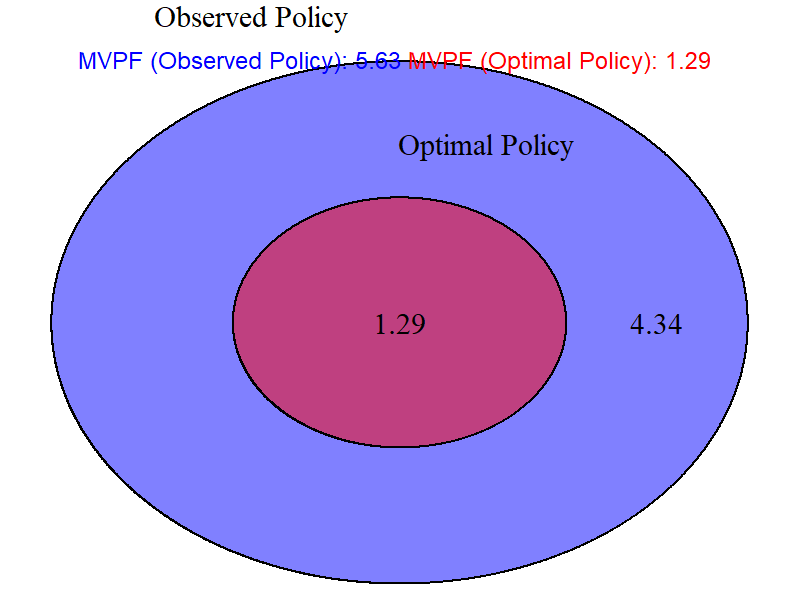
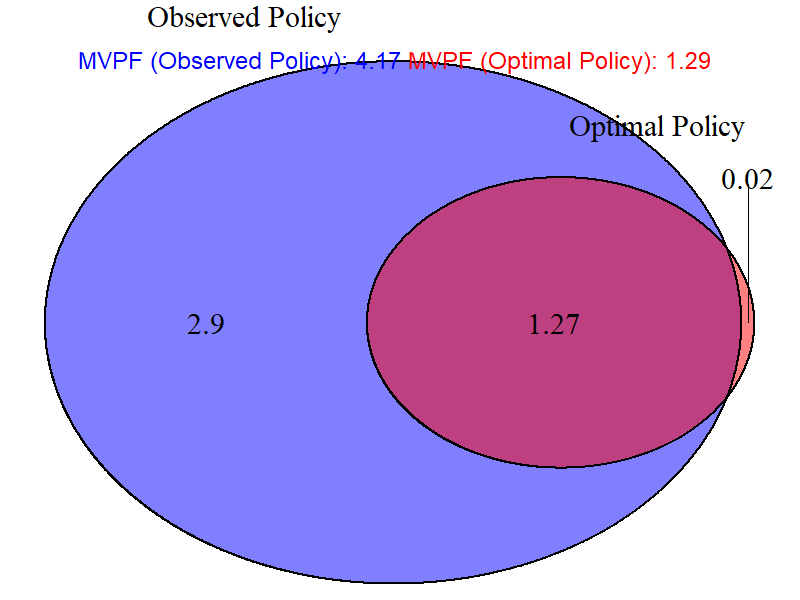
Optimal_Policy_Analysis.R script now converts monetary variables to 2024 USD

diff --git a/analysis/output/tables/MVPF_comparison_table.tex b/analysis/output/tables/MVPF_comparison_table.tex
@@ -9,10 +9,10 @@
 \cmidrule(l{3pt}r{3pt}){2-5}
 Metric & Observed.Policy & alpha = 0 & alpha = 02 & alpha = 05\\
 \midrule
-\cellcolor{gray!10}{MVPF} & \cellcolor{gray!10}{8.43} & \cellcolor{gray!10}{2.94} & \cellcolor{gray!10}{1.49} & \cellcolor{gray!10}{1.31}\\
-Total Revenue & 1265.57 & 5628.71 & 6989.53 & 6856.10\\
-\cellcolor{gray!10}{Government Expenditure} & \cellcolor{gray!10}{557.34} & \cellcolor{gray!10}{1295.74} & \cellcolor{gray!10}{1304.40} & \cellcolor{gray!10}{1091.47}\\
-Number Treated & 100.00 & 298.00 & 292.00 & 233.00\\
+\cellcolor{gray!10}{MVPF} & \cellcolor{gray!10}{4.17} & \cellcolor{gray!10}{2.94} & \cellcolor{gray!10}{1.49} & \cellcolor{gray!10}{1.31}\\
+Total Revenue & 10.89 & 41.40 & 51.41 & 50.43\\
+\cellcolor{gray!10}{Government Expenditure} & \cellcolor{gray!10}{4.28} & \cellcolor{gray!10}{9.53} & \cellcolor{gray!10}{9.59} & \cellcolor{gray!10}{8.03}\\
+Number Treated & 111.00 & 298.00 & 292.00 & 233.00\\
 \bottomrule
 \end{tabular}}
 \end{table}
@@ -28,10 +28,10 @@ Number Treated & 100.00 & 298.00 & 292.00 & 233.00\\
 \cmidrule(l{3pt}r{3pt}){2-5}
 Metric & Observed.Policy & alpha = 0 & alpha = 02 & alpha = 05\\
 \midrule
-\cellcolor{gray!10}{MVPF} & \cellcolor{gray!10}{8.43} & \cellcolor{gray!10}{1.30} & \cellcolor{gray!10}{1.29} & \cellcolor{gray!10}{1.24}\\
-Total Revenue & 1265.57 & 6472.58 & 6390.84 & 5013.40\\
-\cellcolor{gray!10}{Government Expenditure} & \cellcolor{gray!10}{557.34} & \cellcolor{gray!10}{993.16} & \cellcolor{gray!10}{983.03} & \cellcolor{gray!10}{688.99}\\
-Number Treated & 100.00 & 221.00 & 207.00 & 152.00\\
+\cellcolor{gray!10}{MVPF} & \cellcolor{gray!10}{4.17} & \cellcolor{gray!10}{1.30} & \cellcolor{gray!10}{1.29} & \cellcolor{gray!10}{1.24}\\
+Total Revenue & 10.89 & 47.61 & 47.01 & 36.88\\
+\cellcolor{gray!10}{Government Expenditure} & \cellcolor{gray!10}{4.28} & \cellcolor{gray!10}{7.31} & \cellcolor{gray!10}{7.23} & \cellcolor{gray!10}{5.07}\\
+Number Treated & 111.00 & 221.00 & 207.00 & 152.00\\
 \bottomrule
 \end{tabular}}
 \end{table}
@@ -47,10 +47,10 @@ Number Treated & 100.00 & 221.00 & 207.00 & 152.00\\
 \cmidrule(l{3pt}r{3pt}){2-4}
 Metric & Observed.Policy & alpha = 0 & alpha = 02\\
 \midrule
-\cellcolor{gray!10}{MVPF} & \cellcolor{gray!10}{8.43} & \cellcolor{gray!10}{1.50} & \cellcolor{gray!10}{1.55}\\
-Total Revenue & 1265.57 & 8455.49 & 8433.80\\
-\cellcolor{gray!10}{Government Expenditure} & \cellcolor{gray!10}{557.34} & \cellcolor{gray!10}{1875.29} & \cellcolor{gray!10}{1954.05}\\
-Number Treated & 100.00 & 360.00 & 371.00\\
+\cellcolor{gray!10}{MVPF} & \cellcolor{gray!10}{4.17} & \cellcolor{gray!10}{1.50} & \cellcolor{gray!10}{1.55}\\
+Total Revenue & 10.89 & 62.19 & 62.04\\
+\cellcolor{gray!10}{Government Expenditure} & \cellcolor{gray!10}{4.28} & \cellcolor{gray!10}{13.79} & \cellcolor{gray!10}{14.37}\\
+Number Treated & 111.00 & 360.00 & 371.00\\
 \bottomrule
 \end{tabular}}
 \end{table}
@@ -66,10 +66,10 @@ Number Treated & 100.00 & 360.00 & 371.00\\
 \cmidrule(l{3pt}r{3pt}){2-4}
 Metric & Observed.Policy & alpha = 0 & alpha = 02\\
 \midrule
-\cellcolor{gray!10}{MVPF} & \cellcolor{gray!10}{8.43} & \cellcolor{gray!10}{1.23} & \cellcolor{gray!10}{1.19}\\
-Total Revenue & 1265.57 & 2069.62 & 2520.20\\
-\cellcolor{gray!10}{Government Expenditure} & \cellcolor{gray!10}{557.34} & \cellcolor{gray!10}{199.91} & \cellcolor{gray!10}{199.23}\\
-Number Treated & 100.00 & 72.00 & 84.00\\
+\cellcolor{gray!10}{MVPF} & \cellcolor{gray!10}{4.17} & \cellcolor{gray!10}{1.23} & \cellcolor{gray!10}{1.19}\\
+Total Revenue & 10.89 & 15.22 & 18.54\\
+\cellcolor{gray!10}{Government Expenditure} & \cellcolor{gray!10}{4.28} & \cellcolor{gray!10}{1.47} & \cellcolor{gray!10}{1.47}\\
+Number Treated & 111.00 & 72.00 & 84.00\\
 \bottomrule
 \end{tabular}}
 \end{table}

diff --git a/analysis/output/tables/Group_Covariate_Means_Table.tex b/analysis/output/tables/Group_Covariate_Means_Table.tex
@@ -9,7 +9,7 @@
 \cmidrule(l{3pt}r{3pt}){2-2} \cmidrule(l{3pt}r{3pt}){3-4}
 Covariate & Covariate.Mean & alpha = 0 & alpha = 02 & alpha = 05\\
 \midrule
-\cellcolor{gray!10}{income} & \cellcolor{gray!10}{22781.29} & \cellcolor{gray!10}{54937.07***} & \cellcolor{gray!10}{72692.66***} & \cellcolor{gray!10}{69866.28***}\\
+\cellcolor{gray!10}{income} & \cellcolor{gray!10}{215.5303} & \cellcolor{gray!10}{356.13***} & \cellcolor{gray!10}{486.73***} & \cellcolor{gray!10}{465.94***}\\
 \bottomrule
 \end{tabular}}
 \end{table}
@@ -25,7 +25,7 @@ Covariate & Covariate.Mean & alpha = 0 & alpha = 02 & alpha = 05\\
 \cmidrule(l{3pt}r{3pt}){2-2} \cmidrule(l{3pt}r{3pt}){3-4}
 Covariate & Covariate.Mean & alpha = 0 & alpha = 02 & alpha = 05\\
 \midrule
-\cellcolor{gray!10}{income} & \cellcolor{gray!10}{22781.29} & \cellcolor{gray!10}{64933.24***} & \cellcolor{gray!10}{62882.93***} & \cellcolor{gray!10}{43417.62***}\\
+\cellcolor{gray!10}{income} & \cellcolor{gray!10}{215.5303} & \cellcolor{gray!10}{429.66***} & \cellcolor{gray!10}{414.58***} & \cellcolor{gray!10}{271.4***}\\
 \bottomrule
 \end{tabular}}
 \end{table}
@@ -41,7 +41,7 @@ Covariate & Covariate.Mean & alpha = 0 & alpha = 02 & alpha = 05\\
 \cmidrule(l{3pt}r{3pt}){2-2} \cmidrule(l{3pt}r{3pt}){3-4}
 Covariate & Covariate.Mean & alpha = 0 & alpha = 02\\
 \midrule
-\cellcolor{gray!10}{income} & \cellcolor{gray!10}{22781.29} & \cellcolor{gray!10}{111308.55***} & \cellcolor{gray!10}{112093.58***}\\
+\cellcolor{gray!10}{income} & \cellcolor{gray!10}{215.5303} & \cellcolor{gray!10}{770.77***} & \cellcolor{gray!10}{776.55***}\\
 \bottomrule
 \end{tabular}}
 \end{table}
@@ -57,7 +57,7 @@ Covariate & Covariate.Mean & alpha = 0 & alpha = 02\\
 \cmidrule(l{3pt}r{3pt}){2-2} \cmidrule(l{3pt}r{3pt}){3-4}
 Covariate & Covariate.Mean & alpha = 0 & alpha = 02\\
 \midrule
-\cellcolor{gray!10}{income} & \cellcolor{gray!10}{22781.29} & \cellcolor{gray!10}{6408.47} & \cellcolor{gray!10}{12539.63**}\\
+\cellcolor{gray!10}{income} & \cellcolor{gray!10}{215.5303} & \cellcolor{gray!10}{-0.82} & \cellcolor{gray!10}{44.27}\\
 \bottomrule
 \end{tabular}}
 \end{table}
